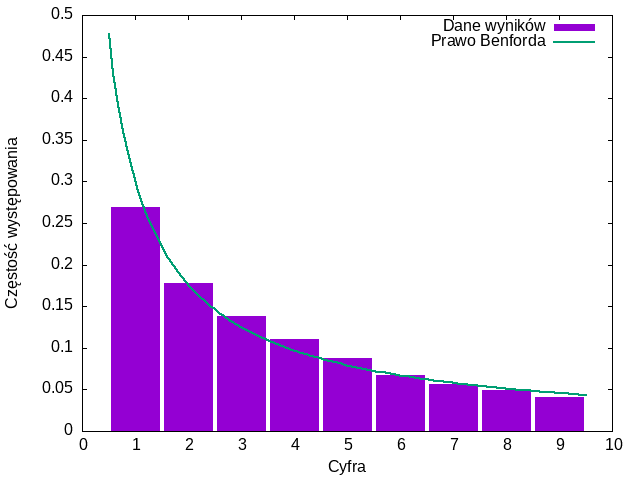
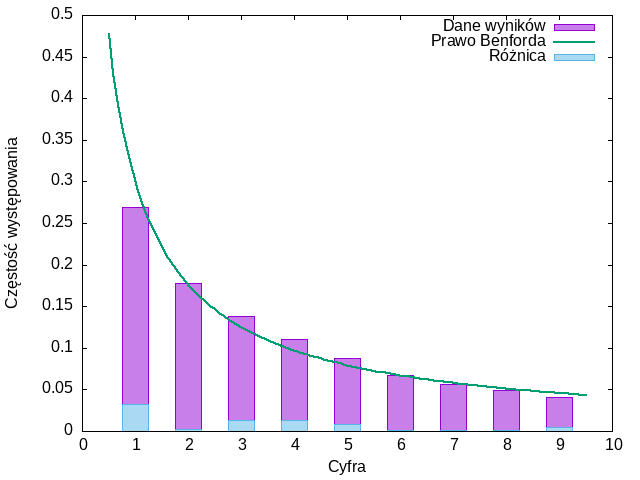
Working - without some utilities

Changed region(s): [[0.1562, 0.4062, 0.9375, 0.9062], [0.75, 0.0938, 0.9375, 0.125], [0.875, 0.0312, 0.9375, 0.0625]]

diff --git a/main.cpp b/main.cpp
@@ -44,7 +44,6 @@ class Histogram
         }
 };
 
-
 int main()
 {
     string dataName= "MebaneData.csv";
@@ -71,7 +70,7 @@ int main()
             i = 1;
 			while(getline(str, word, ','))
             {
-				if(i == rowNum) hist.add_data(dig(stoi(word),1));
+				if(i == rowNum && isdigit(word[0])) hist.add_data(dig(stoi(word),1));
                 i++;
             }
 		}
